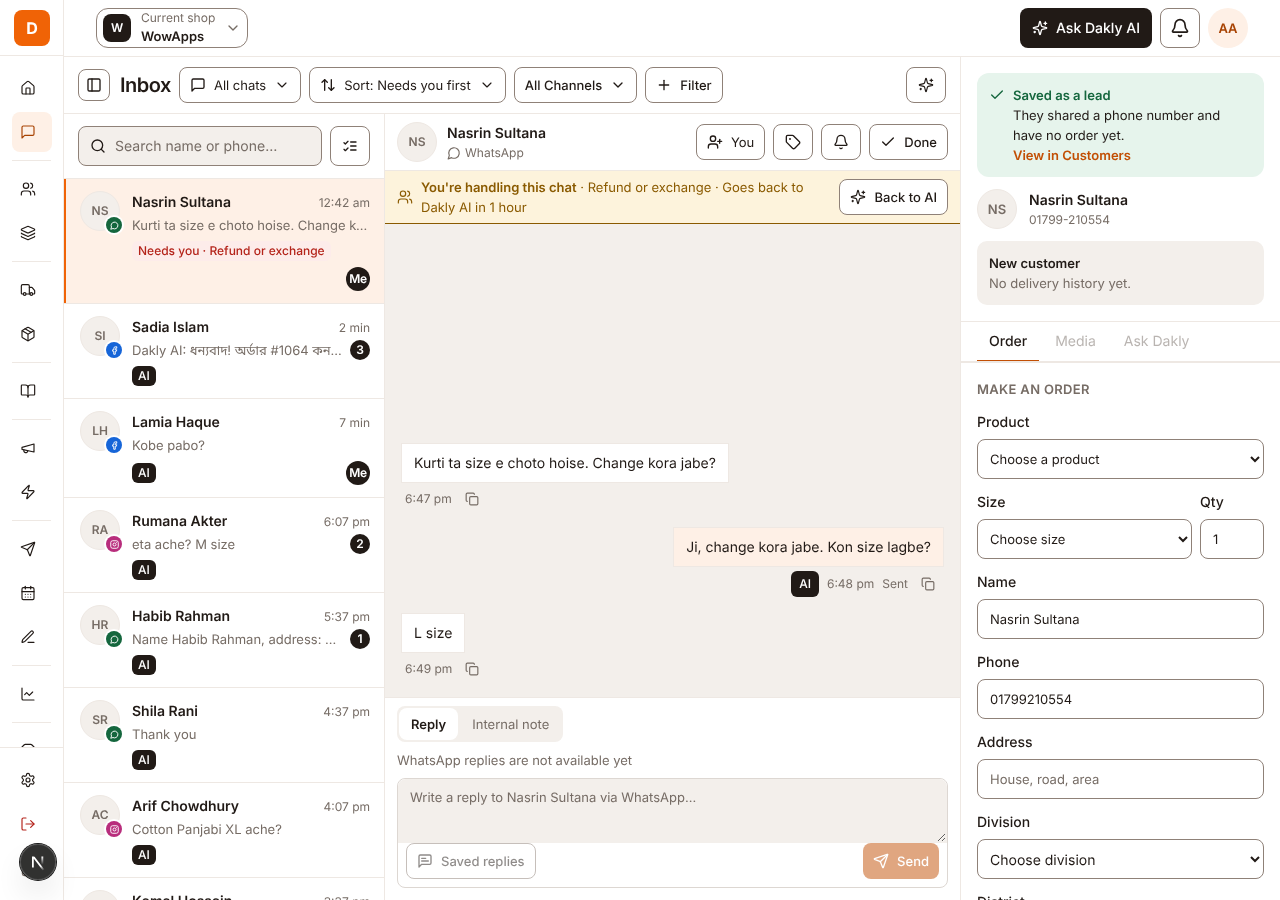
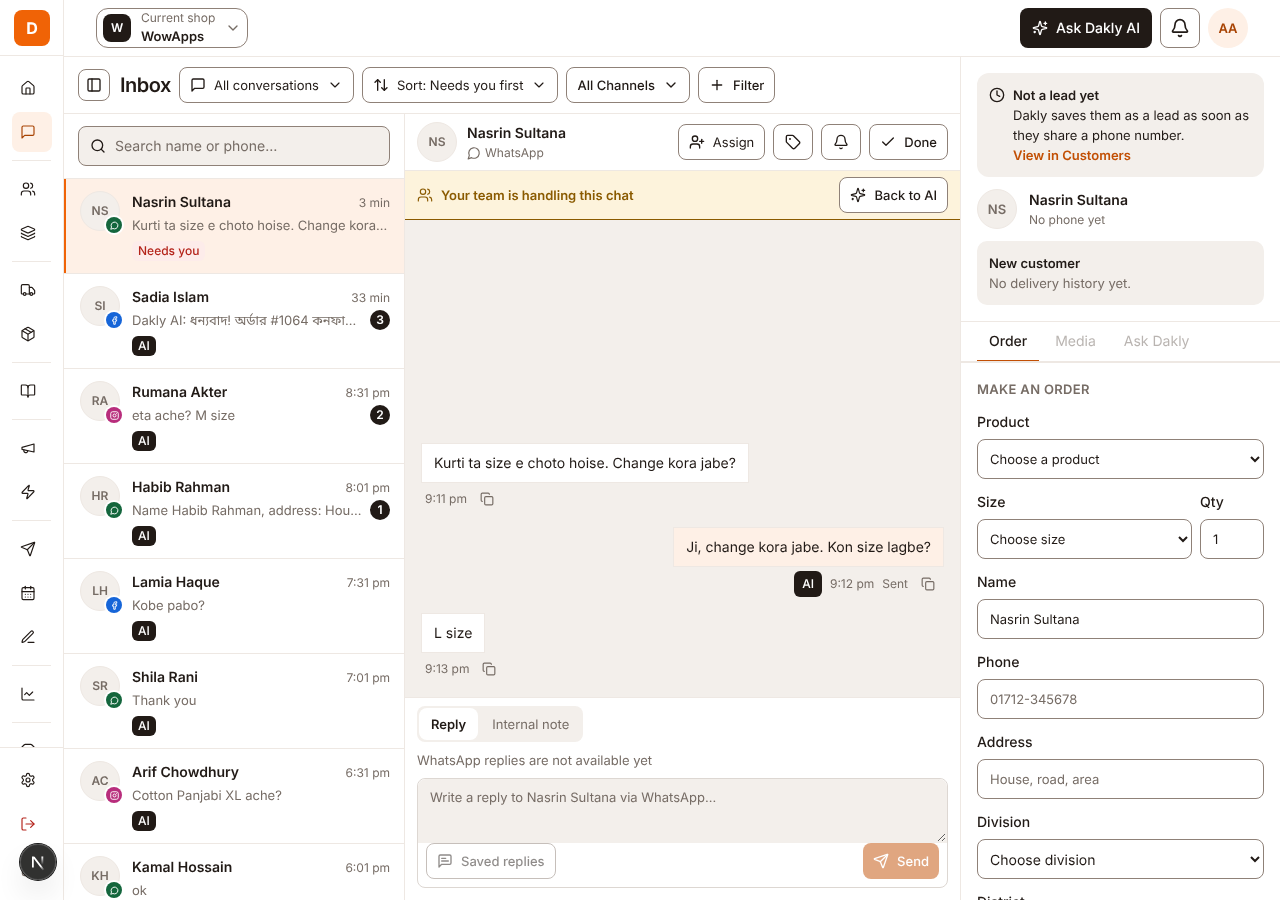
fix(chat-5): match the Inbox search, toolbar and folder list to the design
Drop the summary pills and the AI agent button, which the design does not
have; the AI agent drawer opens from the main navigation instead. The
search box takes the full width, and chats are picked from a tick box
over the avatar, with the Select chats button kept for touch screens.

diff --git a/apps/web/src/features/chats/components/chats.spec.tsx b/apps/web/src/features/chats/components/chats.spec.tsx
@@ -66,14 +66,12 @@ const ok = (items: ConversationResponse[]) =>
   Response.json({ items, nextCursor: null }, { headers: { 'x-session-context': 'verified' } });
 
 let pastOrders: unknown[] = [];
-let summary: unknown = { aiRepliesToday: 49, chatOrdersToday: { count: 7, totalPoisha: 2478000 } };
 let autoReplyOn = true;
 
 // The answers every chats screen asks for besides the chat itself.
 function sidebarResponse(path: string) {
   const verified = { headers: { 'x-session-context': 'verified' } };
   if (path.startsWith('/api/conversations/counts')) return Response.json(counts, verified);
-  if (path.startsWith('/api/conversations/summary')) return Response.json(summary, verified);
   if (path.startsWith('/api/conversations/assignees')) return Response.json([], verified);
   if (path.startsWith('/api/conversations/labels'))
     return Response.json(['VIP', 'Wholesale'], verified);
@@ -158,26 +156,6 @@ afterEach(() => {
   connectionsForbidden = false;
   pastOrders = [];
   autoReplyOn = true;
-  summary = { aiRepliesToday: 49, chatOrdersToday: { count: 7, totalPoisha: 2478000 } };
-});
-
-describe('Header pills', () => {
-  it('shows how many chats need you, the AI auto-reply state and the orders from chats today', async () => {
-    respond(() => ok([sadia]));
-    show();
-    expect(await screen.findByText('1 need you')).toBeTruthy();
-    expect(await screen.findByText('AI auto-reply on · 49 replies today')).toBeTruthy();
-    expect(await screen.findByText('7 orders from chats today · ৳24,780')).toBeTruthy();
-  });
-
-  it('says the auto-reply is off and leaves out the order figures a member may not see', async () => {
-    autoReplyOn = false;
-    summary = { aiRepliesToday: 0, chatOrdersToday: null };
-    respond(() => ok([sadia]));
-    show();
-    expect(await screen.findByText('AI auto-reply off · 0 replies today')).toBeTruthy();
-    expect(screen.queryByText(/orders from chats today/)).toBeNull();
-  });
 });
 
 describe('Bulk select', () => {
@@ -235,11 +213,22 @@ describe('Bulk select', () => {
     expect(screen.getByText('2 selected')).toBeTruthy();
   });
 
-  it('offers no Select button to a member who can only read chats', async () => {
+  it('starts picking with the chat whose avatar box was ticked', async () => {
+    respondToList();
+    show();
+    await userEvent.click(await screen.findByRole('checkbox', { name: 'Select Rumana Akter' }));
+    expect(screen.getByText('1 selected')).toBeTruthy();
+    expect(
+      screen.getByRole('checkbox', { name: 'Select Rumana Akter' }).getAttribute('aria-checked'),
+    ).toBe('true');
+  });
+
+  it('offers no way to pick chats to a member who can only read them', async () => {
     respondToList();
     show(defaults, { canEditChats: false });
     expect(await screen.findByText('Sadia Islam')).toBeTruthy();
     expect(screen.queryByRole('button', { name: 'Select chats' })).toBeNull();
+    expect(screen.queryByRole('checkbox')).toBeNull();
   });
 });
 
@@ -316,9 +305,9 @@ describe('Chat list', () => {
     expect(screen.getByText('Price koto? Mirpur e delivery charge koto?')).toBeTruthy();
     expect(screen.getByText('Unread:').parentElement?.textContent).toBe('Unread: 3');
     expect(await screen.findByRole('link', { name: /AI handling\s*9/ })).toBeTruthy();
-    expect(screen.getByRole('link', { name: /All\s*13/ }).getAttribute('aria-current')).toBe(
-      'page',
-    );
+    expect(
+      screen.getByRole('link', { name: /All conversations\s*13/ }).getAttribute('aria-current'),
+    ).toBe('page');
   });
 
   it('asks for the chats of the chosen tab and channel', async () => {

diff --git a/apps/web/src/features/chats/components/chats-screen.tsx b/apps/web/src/features/chats/components/chats-screen.tsx
@@ -1,16 +1,14 @@
 'use client';
-import { MessageSquare, PanelLeft, Sparkles } from 'lucide-react';
-import Link from 'next/link';
+import { MessageSquare, PanelLeft } from 'lucide-react';
 import { useRouter } from 'next/navigation';
 import { useCallback, useId, useRef, useState, useSyncExternalStore } from 'react';
 
-import { Button, buttonVariants } from '@dakly/ui/button';
+import { Button } from '@dakly/ui/button';
 import { cn } from '@dakly/ui/cn';
 
 import { chatScreenQuerySchema, chatsHref, type ChatScreenQuery } from '../chat-filters';
 import { AiAgentDrawer } from './ai-agent-drawer';
 import { ChatChannelFilter } from './chat-channel-filter';
-import { ChatHeaderPills } from './chat-header-pills';
 import { ChatList } from './chat-list';
 import { ChatToolbar } from './chat-search-bar';
 import { ChatTabs } from './chat-tabs';
@@ -33,7 +31,7 @@ export function ChatsScreen({ query: initial }: { query: ChatScreenQuery }) {
       <InboxFolders query={query} folders={folders} />
       <div
         data-chat={query.chat && query.channel !== 'comments' ? 'open' : undefined}
-        className="grid min-h-0 min-w-0 flex-1 grid-rows-[auto_minmax(0,1fr)] overflow-hidden lg:grid-cols-[minmax(0,20rem)_minmax(0,1fr)] xl:data-[chat=open]:grid-cols-[minmax(0,20rem)_minmax(0,1fr)_minmax(0,20rem)]"
+        className="grid min-h-0 min-w-0 flex-1 grid-rows-[auto_minmax(0,1fr)] overflow-hidden lg:grid-cols-[minmax(0,21.25rem)_minmax(0,1fr)] xl:data-[chat=open]:grid-cols-[minmax(0,21.25rem)_minmax(0,1fr)_minmax(0,20rem)]"
       >
         <InboxControls query={query} folders={folders} />
         {query.channel === 'comments' ? (
@@ -121,7 +119,6 @@ function InboxControls({ query, folders }: { query: ChatScreenQuery; folders: In
         foldersOpen={folders.expanded}
         channel={<ChatChannelFilter query={query} />}
       />
-      <InboxAgentLink query={query} />
     </div>
   );
 }
@@ -130,15 +127,12 @@ function InboxFolders({ query, folders }: { query: ChatScreenQuery; folders: Inb
   if (!folders.expanded) return <div id={folders.id} hidden />;
 
   return (
-    <aside className="hidden w-56 shrink-0 flex-col overflow-y-auto border-r border-border bg-surface-muted lg:flex">
+    <aside className="hidden w-54 shrink-0 flex-col overflow-y-auto border-r border-border bg-surface-muted lg:flex">
       <div className="flex min-h-14 items-center border-b border-border px-3.5">
         <InboxHeading folders={folders} />
       </div>
       <div id={folders.id}>
         <ChatTabs query={query} />
-        <div className="border-t border-border p-2.5">
-          <ChatHeaderPills />
-        </div>
       </div>
     </aside>
   );
@@ -162,17 +156,5 @@ function InboxHeading({ folders }: { folders: InboxFoldersState }) {
       </Button>
       <h1 className="text-lg font-semibold tracking-tight">Inbox</h1>
     </div>
-  );
-}
-
-function InboxAgentLink({ query }: { query: ChatScreenQuery }) {
-  return (
-    <Link
-      href={chatsHref({ ...query, agent: 'settings' })}
-      className={cn(buttonVariants({ variant: 'secondary', size: 'sm' }), 'ml-auto')}
-    >
-      <Sparkles aria-hidden="true" size={16} strokeWidth={1.75} />
-      <span className="sr-only 2xl:not-sr-only">AI agent</span>
-    </Link>
   );
 }

diff --git a/apps/web/src/components/shell-navigation.spec.ts b/apps/web/src/components/shell-navigation.spec.ts
@@ -15,25 +15,32 @@ const team = { href: '/team' };
 describe('currentState', () => {
   it('keeps a link with nested screens highlighted on them', () => {
     const products = { href: '/products', nested: true };
-    expect(currentState(products, '/products/new', null)).toBe('page');
-    expect(currentState(products, '/products/abc', null)).toBe('page');
-    expect(currentState(products, '/productsx', null)).toBeUndefined();
-    expect(currentState(team, '/team/ownership', null)).toBeUndefined();
+    expect(currentState(products, '/products/new', new URLSearchParams())).toBe('page');
+    expect(currentState(products, '/products/abc', new URLSearchParams())).toBe('page');
+    expect(currentState(products, '/productsx', new URLSearchParams())).toBeUndefined();
+    expect(currentState(team, '/team/ownership', new URLSearchParams())).toBeUndefined();
   });
   it('marks Settings as the page on /settings without a tab', () => {
-    expect(currentState(settings, '/settings', null)).toBe('page');
-    expect(currentState(storeSettings, '/settings', null)).toBeUndefined();
+    expect(currentState(settings, '/settings', new URLSearchParams())).toBe('page');
+    expect(currentState(storeSettings, '/settings', new URLSearchParams())).toBeUndefined();
   });
   it('marks the tab link as the page and Settings as the location on a tab', () => {
-    expect(currentState(storeSettings, '/settings', 'store')).toBe('page');
-    expect(currentState(settings, '/settings', 'store')).toBe('location');
+    expect(currentState(storeSettings, '/settings', new URLSearchParams('tab=store'))).toBe('page');
+    expect(currentState(settings, '/settings', new URLSearchParams('tab=store'))).toBe('location');
+  });
+  it('marks a link with a query as the page only when the screen has that query', () => {
+    const agent = { href: '/chats?agent=settings' };
+    const chats = { href: '/chats' };
+    expect(currentState(agent, '/chats', new URLSearchParams('agent=settings'))).toBe('page');
+    expect(currentState(agent, '/chats', new URLSearchParams())).toBeUndefined();
+    expect(currentState(chats, '/chats', new URLSearchParams())).toBe('page');
   });
   it('marks Extensions as the page on its own route', () => {
-    expect(currentState(extensions, '/extensions', null)).toBe('page');
+    expect(currentState(extensions, '/extensions', new URLSearchParams())).toBe('page');
   });
   it('marks Settings as the location on the screens it leads to', () => {
-    expect(currentState(settings, '/security', null)).toBe('location');
-    expect(currentState(team, '/team/ownership', null)).toBeUndefined();
+    expect(currentState(settings, '/security', new URLSearchParams())).toBe('location');
+    expect(currentState(team, '/team/ownership', new URLSearchParams())).toBeUndefined();
   });
 });
 

diff --git a/apps/web/src/features/chats/components/chat-list.tsx b/apps/web/src/features/chats/components/chat-list.tsx
@@ -29,11 +29,12 @@ export function ChatList({ query }: { query: ChatScreenQuery }) {
       <div className="flex shrink-0 items-center gap-2 border-b border-border px-3.5 py-3">
         <ChatSearchBar query={query} />
         {canEdit && !selected ? (
+          // Touch screens have no hover to show the tick box on the avatar.
           <Button
             variant="secondary"
             aria-label="Select chats"
             title="Select chats"
-            className="shrink-0 p-0"
+            className="hidden shrink-0 p-0 pointer-coarse:inline-flex"
             onClick={() => setSelected([])}
           >
             <ListChecks aria-hidden="true" size={16} />
@@ -42,7 +43,7 @@ export function ChatList({ query }: { query: ChatScreenQuery }) {
       </div>
       {selected ? <ChatBulkBar selected={selected} onDone={() => setSelected(null)} /> : null}
       <div className="min-h-0 flex-1 overflow-y-auto">
-        <ChatRows query={query} selected={selected} onSelect={setSelected} />
+        <ChatRows query={query} selected={selected} canSelect={canEdit} onSelect={setSelected} />
       </div>
     </section>
   );
@@ -51,10 +52,11 @@ export function ChatList({ query }: { query: ChatScreenQuery }) {
 type ChatRowsProps = {
   query: ChatScreenQuery;
   selected: string[] | null;
+  canSelect: boolean;
   onSelect: (selected: string[]) => void;
 };
 
-function ChatRows({ query, selected, onSelect }: ChatRowsProps) {
+function ChatRows({ query, selected, canSelect, onSelect }: ChatRowsProps) {
   const conversations = useConversations(conversationFilters(query));
   if (conversations.error)
     return (
@@ -91,6 +93,7 @@ function ChatRows({ query, selected, onSelect }: ChatRowsProps) {
             conversation={conversation}
             query={query}
             selection={selectionFor(conversation.id, selected, onSelect)}
+            onStartSelection={canSelect ? () => onSelect([conversation.id]) : undefined}
           />
         ))}
       </ul>

diff --git a/apps/web/src/components/shell-navigation.tsx b/apps/web/src/components/shell-navigation.tsx
@@ -1,6 +1,7 @@
 'use client';
 import {
   BookOpen,
+  Bot,
   CalendarDays,
   ChartLine,
   House,
@@ -102,11 +103,7 @@ function NavigationItem({
   collapsed,
   onNavigate,
 }: NavigationLink & Pick<ShellNavigationProps, 'collapsed' | 'onNavigate'>) {
-  const current = currentState(
-    { href, related, nested },
-    usePathname(),
-    useSearchParams().get('tab'),
-  );
+  const current = currentState({ href, related, nested }, usePathname(), useSearchParams());
   return (
     <Link
       href={href}
@@ -263,6 +260,13 @@ function settingsGroups(store: SessionContext['currentStore']): NavigationGroup[
           icon: Plug,
           visible: store?.canViewStoreSettings,
         },
+        // The Inbox design has no room for it, so the agent drawer opens from here.
+        {
+          href: '/chats?agent=settings',
+          label: 'AI agent',
+          icon: Bot,
+          visible: store?.canViewChats,
+        },
       ],
     },
   ];
@@ -337,12 +341,15 @@ function NavigationGroups({
 export function currentState(
   { href, related, nested }: Pick<NavigationLink, 'href' | 'related' | 'nested'>,
   pathname: string,
-  tab: string | null,
+  search: Pick<URLSearchParams, 'get'>,
 ) {
-  const [path, query] = href.split('?');
-  const linkTab = new URLSearchParams(query).get('tab');
+  const link = new URL(href, 'http://link.invalid');
+  const path = link.pathname;
+  const linkParams = [...link.searchParams];
   if (nested && pathname.startsWith(`${path}/`)) return 'page';
   if (pathname !== path) return related?.includes(pathname) ? 'location' : undefined;
-  if (linkTab) return tab === linkTab ? 'page' : undefined;
-  return related && tab ? 'location' : 'page';
+  if (linkParams.length) {
+    return linkParams.every(([key, value]) => search.get(key) === value) ? 'page' : undefined;
+  }
+  return related && search.get('tab') ? 'location' : 'page';
 }

diff --git a/apps/web/src/features/chats/components/chat-row.tsx b/apps/web/src/features/chats/components/chat-row.tsx
@@ -28,11 +28,13 @@ type ChatRowProps = {
   query: ChatScreenQuery;
   // Set while picking chats for a bulk action: the row then ticks instead of opening.
   selection?: { selected: boolean; onToggle: () => void };
+  // Ticking the box that replaces the avatar on hover starts picking with this chat.
+  onStartSelection?: () => void;
 };
 
 const rowClasses = 'flex gap-3 border-l-2 border-transparent px-3.5 py-3 hover:bg-surface-muted';
 
-export function ChatRow({ conversation, query, selection }: ChatRowProps) {
+export function ChatRow({ conversation, query, selection, onStartSelection }: ChatRowProps) {
   const name = contactDisplayName(conversation);
   const content = <ChatRowContent conversation={conversation} name={name} />;
   if (selection)
@@ -49,7 +51,7 @@ export function ChatRow({ conversation, query, selection }: ChatRowProps) {
       </li>
     );
   return (
-    <li>
+    <li className="group relative">
       <Link
         href={chatsHref({ ...query, chat: conversation.id })}
         aria-current={query.chat === conversation.id ? 'true' : undefined}
@@ -60,6 +62,15 @@ export function ChatRow({ conversation, query, selection }: ChatRowProps) {
       >
         {content}
       </Link>
+      {onStartSelection ? (
+        <span className="absolute top-3 left-4 hidden size-10 items-center justify-center rounded-full bg-surface opacity-0 group-hover:opacity-100 focus-within:opacity-100 pointer-fine:flex">
+          <Checkbox
+            aria-label={`Select ${name}`}
+            checked={false}
+            onCheckedChange={onStartSelection}
+          />
+        </span>
+      ) : null}
     </li>
   );
 }

diff --git a/apps/web/src/features/chats/components/chat-tabs.tsx b/apps/web/src/features/chats/components/chat-tabs.tsx
@@ -27,7 +27,7 @@ const folderIcons = {
 export function ChatTabs({ query }: { query: ChatScreenQuery }) {
   const { data: counts } = useConversationCounts();
   return (
-    <nav aria-label="Chat tabs" className="flex shrink-0 flex-col gap-1 p-2.5">
+    <nav aria-label="Chat tabs" className="flex shrink-0 flex-col p-2.5">
       {chatTabs.map((tab) => {
         const Icon = folderIcons[tab];
         return (

diff --git a/apps/web/src/features/chats/components/chat-search-bar.tsx b/apps/web/src/features/chats/components/chat-search-bar.tsx
@@ -132,7 +132,7 @@ function ChatFolderSelect({
       <SelectContent>
         {chatTabs.map((tab) => (
           <SelectItem key={tab} value={tab}>
-            {tab === 'all' ? 'All chats' : chatTabLabels[tab]}
+            {chatTabLabels[tab]}
           </SelectItem>
         ))}
       </SelectContent>

diff --git a/apps/web/src/features/chats/chat-filters.ts b/apps/web/src/features/chats/chat-filters.ts
@@ -23,7 +23,7 @@ export const chatSortLabels: Record<(typeof chatSorts)[number], string> = {
 };
 
 export const chatTabLabels: Record<(typeof chatTabs)[number], string> = {
-  all: 'All',
+  all: 'All conversations',
   'needs-you': 'Needs you',
   'ai-handling': 'AI handling',
   'follow-up': 'Follow up',

diff --git a/docs/features/04-chats-and-ai-agent.md b/docs/features/04-chats-and-ai-agent.md
@@ -23,7 +23,7 @@ The product requirements below are the PRD text from 12 November 2026. Where a l
 
 ## Inbox layout
 
-The Inbox fills the full width and height of the workspace, with the main navigation shown as an icon rail and only the columns scrolling, with the folder list, conversation list, thread, and customer and order panel side by side. The folder column starts open at 1,536px and wider and collapsed below that, where the folder picker in the toolbar takes its place; collapsing it moves the Inbox title and toggle into the toolbar. Below 1,280px the customer panel opens from the Customer button, and on phones opening a chat or the customer panel takes the place of the list. Sort, channel and filters are in the toolbar; Saved replies and Send share the composer footer. A row shows recent activity in minutes, today's in time and older as the day; its chips are Needs you with the hand-over reason, then AI, and a mark for the person the chat is assigned to. The banner names who is handling the chat and when it goes back to Dakly AI, and the customer card links to the profile from View in Customers. The order totals end with the cash to collect on delivery. Reply and Internal note keep separate drafts. Opening a conversation shows the latest messages, and loading earlier ones keeps the current messages in view.
+The Inbox fills the full width and height of the workspace, with the main navigation shown as an icon rail and only the columns scrolling, with the folder list, conversation list, thread, and customer and order panel side by side. The folder column starts open at 1,536px and wider and collapsed below that, where the folder picker in the toolbar takes its place; collapsing it moves the Inbox title and toggle into the toolbar. Below 1,280px the customer panel opens from the Customer button, and on phones opening a chat or the customer panel takes the place of the list. Sort, channel and filters are in the toolbar, and the search box takes the full width of the list. The folder column holds only the folders: the design has no summary pills and no AI agent button, so the AI agent drawer opens from AI agent in the main navigation's Configuration group. To pick chats, a person ticks the box that covers a row's avatar on hover; on a touch screen the Select chats button beside the search does it. Saved replies and Send share the composer footer. A row shows recent activity in minutes, today's in time and older as the day; its chips are Needs you with the hand-over reason, then AI, and a mark for the person the chat is assigned to. The banner names who is handling the chat and when it goes back to Dakly AI, and the customer card links to the profile from View in Customers. The order totals end with the cash to collect on delivery. Reply and Internal note keep separate drafts. Opening a conversation shows the latest messages, and loading earlier ones keeps the current messages in view.
 
 ## Product requirements
 
@@ -371,7 +371,7 @@ AI agent settings: `GET /ai-agent/settings` and `PUT /ai-agent/settings` (`store
 
 Rating an AI reply: `PUT /ai-replies/:messageId/rating` (Chats edit) saves `good`, or `bad` with one reason (`wrong_information`, `wrong_price_or_stock`, `too_long`, `not_our_tone`, `missed_the_question`, `should_have_handed_over`) on the AI message (`messages.ai_rating`, `ai_rating_reason`, `rated_by_user_id`, `rated_at`). Only the rating and the reason are saved; the reply and the customer's words stay in the chat. Rating again replaces the earlier rating, and each rating is audited as `ai_reply.rated` with the state. `GET /ai-replies/feedback?filter=needs_fixing|bad|good|all` (Chats view) returns the summary (helpful percent, good, bad and fixed counts, common problems) and the newest 50 rated replies with the customer's name, the customer's last message before the reply, the reply text and when it was fixed. `POST /ai-replies/:messageId/fix` (Chats edit) takes the customer's question, the right answer and optional keywords for a reply rated bad, saves them as a taught answer through the Knowledge feature, sets `messages.ai_fixed_at` and audits `ai_reply.fixed`; the answer is indexed like any taught answer, so Bangla, Bangla in English letters and mixed text are kept as typed. A reply that is not rated bad or is already fixed answers 409, so one reply teaches one answer. The thumbs buttons in a conversation belong to the Chats screen (CHAT-5).
 
-The AI agent drawer opens from the AI agent button on Chats (`/chats?agent=settings`; the tab is in the URL). The Settings tab edits the fields above with one Save changes button. A stale save shows the error and a Load latest settings button. Under the settings the Go live panel shows the checks the screen can know (hand-over rules saved, 3 test questions saved), the test questions editor (3 to 5 pairs, saved with `PUT /ai-agent/test-questions`), and each chat channel with a Practice or Live badge (`isAiLive` on `GET /channel-connections`) and a Go live button for active channels in practice. Go live is one long request, so the button turns into a progress line ("Dakly is answering your test questions. This can take a minute"), the web proxy waits up to 180 seconds (`experimental.proxyTimeout`), a `GO_LIVE_TESTS_FAILED` answer marks the failed questions, and a cut-off request shows Check again, which reloads the channels instead of sending a second Go live.
+The AI agent drawer opens from AI agent in the main navigation (`/chats?agent=settings`; the tab is in the URL). The Settings tab edits the fields above with one Save changes button. A stale save shows the error and a Load latest settings button. Under the settings the Go live panel shows the checks the screen can know (hand-over rules saved, 3 test questions saved), the test questions editor (3 to 5 pairs, saved with `PUT /ai-agent/test-questions`), and each chat channel with a Practice or Live badge (`isAiLive` on `GET /channel-connections`) and a Go live button for active channels in practice. Go live is one long request, so the button turns into a progress line ("Dakly is answering your test questions. This can take a minute"), the web proxy waits up to 180 seconds (`experimental.proxyTimeout`), a `GO_LIVE_TESTS_FAILED` answer marks the failed questions, and a cut-off request shows Check again, which reloads the channels instead of sending a second Go live.
 
 The Knowledge tab (`?agent=knowledge`) lists answers and files from `GET /knowledge-items`. Four cards count what Dakly reads: Products (active products shown in chats) and Store rules (each delivery zone, plus one when the shop has saved extra rules) come from `GET /ai-agent/knowledge-summary`; Your answers and Files and links are counted from the list, where a source is a file or a website link. Add answer opens a dialog, "Teach Dakly an answer", with When a customer asks, Dakly replies and Also use it for these words (comma separated, up to 10). It saves a policy item (`POST /knowledge-items`); the dialog asks for both the question and the reply, though the API accepts a reply alone for older items. Each answer card shows the question, the reply, up to four keywords and "Added by you · Used N times" (or "Not used yet"), with Edit (`PATCH`) and a confirmed Delete. The search box filters answers by question, reply and keywords in the browser. Files upload as PDF or text up to 10 MB through a presigned URL (`POST /knowledge-items/uploads` with the file name, a `PUT` to the returned URL, then `POST /knowledge-items` with `kind: file`). The Files and links list shows the file name or the link, and the tab looks again every 4 seconds while any item is Reading, then shows Learned N facts or the reason it failed.
 
@@ -486,7 +486,7 @@ Staff with edit access can set status, assign an active member or clear the assi
 
 The list shows the contact name on each row. `GET /conversations` takes `q` (a name of three letters or more, a full phone number, or the start of a number for members who see full phone numbers; phone searches follow the CUS-15 exact-match rules and hourly limit), `sort` (`recent`, `needs_you`, `unread` or `waiting`) and `contactKind`. Needs you first and Unread first put those chats ahead of the rest, newest first; Waiting longest puts unread chats first, oldest first. `GET /conversations/assignees` lists members who can view chats for the Assigned to filter and the part 4 assign picker. The counts also carry Done and Not customers, which are the last two tabs. The search words, sort and assignee are kept in the URL; the Filter button opens a floating panel under it with Assigned to, a Clear link and a Done button. The Label filter joins it in the labels part. `GET /conversations/counts` returns the tab numbers: all chats, chats that need you, chats the AI is handling and chats set to follow up. The chat list screen (`/chats`) keeps its tab and channel filter in the URL. The channel filter lists only the channels the shop has connected (from `/channel-connections`, ignoring disconnected ones), adds Comments only when a Page or Instagram account is connected, and is hidden when there is one choice or fewer. A member without store settings access cannot read the connections, so the filter lists every channel for them. The card fills the window and the list scrolls inside it. Work that is not built yet, and where it goes:
 
-The header shows three pills on the title row, as tall as the AI agent button, each with an icon (warning triangle, sparkle, bag); on a narrow screen they wrap under the title. "N need you" is the Needs you count. "AI auto-reply on · N replies today" follows the AI agent's master switch and counts the AI replies sent since the shop's midnight. "N orders from chats today · ৳total" counts orders from Messenger, Instagram or WhatsApp since the shop's midnight, without cancelled ones, and adds their totals as the Orders screen counts them (what was delivered for a partly delivered order); it shows only to members who can view orders. `GET /conversations/summary` (View Chats) returns the two numbers; a pill that cannot load is left out. The Select button (Edit Chats) turns the rows into tick boxes and shows "N selected" with Mark done and Assign, which send one `PATCH /conversations/:id` per chat; if some fail, those chats stay selected and the bar says how many. Label in the bulk bar adds an existing label to each ticked chat.
+`GET /conversations/summary` (View Chats) returns the AI replies sent and the orders from chats since the shop's midnight; the Inbox no longer shows them, because the design has no summary pills. Selecting chats (Edit Chats) turns the rows into tick boxes and shows "N selected" with Mark done and Assign, which send one `PATCH /conversations/:id` per chat; if some fail, those chats stay selected and the bar says how many. Label in the bulk bar adds an existing label to each ticked chat.
 
 - Intent tags, "Lead saved" and "Dakly is typing": AI-5 shows them from the AI pipeline.
 
